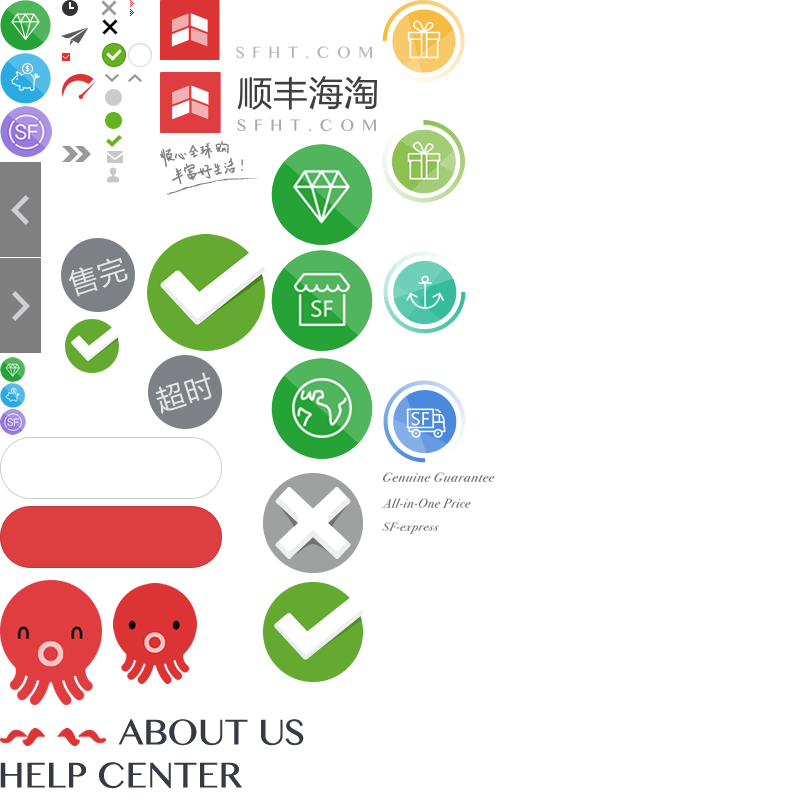
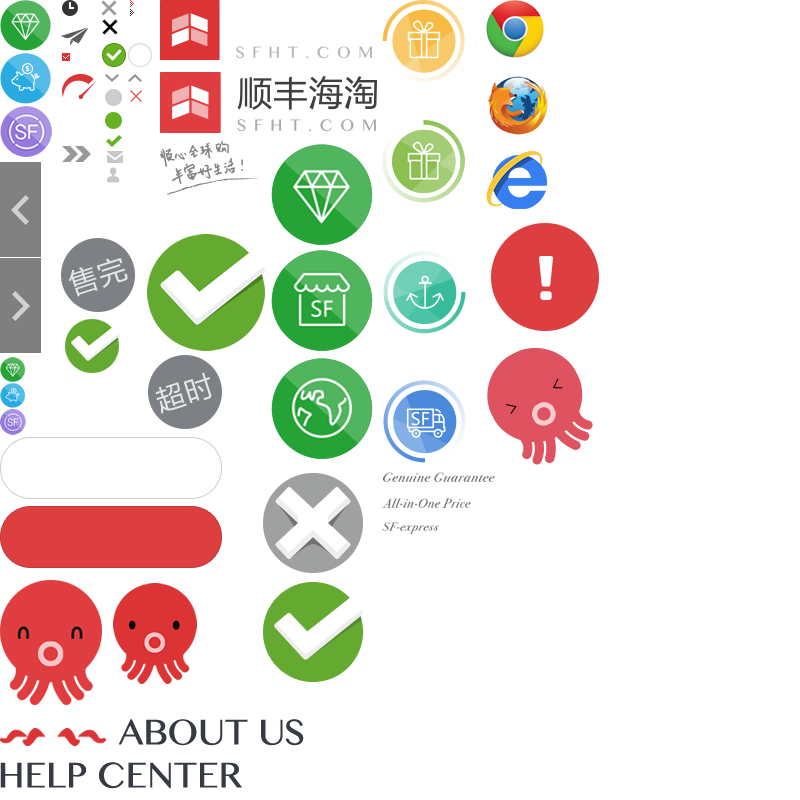
浏览器版本提示

Changed region(s): [[0.5938, 0.0, 0.75, 0.5938]]

diff --git a/prototype/dialog-browser.html b/prototype/dialog-browser.html
@@ -1,0 +1,123 @@
+<!DOCTYPE html PUBLIC "-//W3C//DTD XHTML 1.0 Transitional//EN" "http://www.w3.org/TR/xhtml1/DTD/xhtml1-transitional.dtd">
+<html xmlns="http://www.w3.org/1999/xhtml">
+<head>
+<meta http-equiv="Content-Type" content="text/html; charset=utf-8" />
+<title>顺丰海淘</title>
+<link href="css/common.css" rel="stylesheet" type="text/css" />
+<link href="css/browser.css" rel="stylesheet" type="text/css" />
+<script>
+    $(function(){
+        $('.u-icon-close').on("click",function(){
+            $(this).parents('.u-dialog').hide();
+        })
+    })
+</script>
+</head>
+<body  onLoad="setup()">
+    <div class="mask"></div>
+    <div class="u-dialog u-dialog-browser">
+        <div class="u-dialog-main">
+            <div class="u-dialog-h">
+                <span class="icon icon46"></span>
+                <button type="button" class="icon icon48"></button>
+            </div>
+            <div class="u-dialog-browser-b">
+                <h2><span class="icon icon47"></span>浏览器版本太低了啦！</h2>
+                <p class="u-dialog-browser-r1">对不起，为了得到我们网站最好的体验效果
+                    <br>我们建议您使用升级到最新版本的internet Explorer 或选择另一个web浏览器</p>
+                <p class="u-dialog-browser-r2">推荐您使用下方列表中的浏览器<b>↓</b></p>
+                <ul>
+                    <li><a target="_blank" href="http://www.google.cn/intl/zh-CN/chrome/" class="icon icon43"></a><a target="_blank" href="http://www.google.cn/intl/zh-CN/chrome/">CHROME</a></li>
+                    <li><a target="_blank" href="http://windows.microsoft.com/zh-cn/internet-explorer/" class="icon icon45"></a><a target="_blank" href="http://windows.microsoft.com/zh-cn/internet-explorer/">Internet Explorer 9</a></li>
+                    <li><a target="_blank" href="http://www.firefox.com.cn/download/" class="icon icon44"></a><a target="_blank" href="http://www.firefox.com.cn/download/">Firefox</a></li>
+                </ul>
+            </div>
+        </div>
+    </div>
+    <ul>
+        <li>li</li>
+        <li>li</li>
+        <li>li</li>
+        <li>li</li>
+        <li>li</li>
+        <li>li</li>
+        <li>li</li>
+        <li>li</li>
+        <li>li</li>
+        <li>li</li>
+        <li>li</li>
+        <li>li</li>
+        <li>li</li>
+        <li>li</li>
+        <li>li</li>
+        <li>li</li>
+        <li>li</li>
+        <li>li</li>
+        <li>li</li>
+        <li>li</li>
+        <li>li</li>
+        <li>li</li>
+        <li>li</li>
+        <li>li</li>
+        <li>li</li>
+        <li>li</li>
+        <li>li</li>
+        <li>li</li>
+        <li>li</li>
+        <li>li</li>
+        <li>li</li>
+        <li>li</li>
+        <li>li</li>
+        <li>li</li>
+        <li>li</li>
+        <li>li</li>
+        <li>li</li>
+        <li>li</li>
+        <li>li</li>
+        <li>li</li>
+        <li>li</li>
+        <li>li</li>
+        <li>li</li>
+        <li>li</li>
+        <li>li</li>
+        <li>li</li>
+        <li>li</li>
+        <li>li</li>
+        <li>li</li>
+        <li>li</li>
+        <li>li</li>
+        <li>li</li>
+        <li>li</li>
+        <li>li</li>
+        <li>li</li>
+        <li>li</li>
+        <li>li</li>
+        <li>li</li>
+        <li>li</li>
+        <li>li</li>
+        <li>li</li>
+        <li>li</li>
+        <li>li</li>
+        <li>li</li>
+        <li>li</li>
+        <li>li</li>
+        <li>li</li>
+        <li>li</li>
+        <li>li</li>
+        <li>li</li>
+        <li>li</li>
+        <li>li</li>
+        <li>li</li>
+        <li>li</li>
+        <li>li</li>
+        <li>li</li>
+        <li>li</li>
+        <li>li</li>
+        <li>li</li>
+        <li>li</li>
+        <li>li</li>
+        <li>li</li>
+        <li>li</li>
+    </ul>
+</body>
+</html>

diff --git a/prototype/css/browser.css b/prototype/css/browser.css
@@ -1,0 +1,131 @@
+@charset "utf-8";
+/*弹窗*/
+ .u-dialog{
+    position: fixed;
+    width: 100%;
+    height: 100%;
+    z-index: 3;
+ }
+.u-dialog-main{
+    position: absolute;
+    left: 50%;
+    top: 50%;
+    width: 598px;
+    height: 286px;
+    margin-left: -299px;
+    margin-top: -143px;
+    background: #fff;
+    box-shadow: 0 0 10px #000;
+}
+.u-dialog-h{
+    border-bottom: 1px solid #E5E5E5;
+    padding: 0 19px;
+}
+.u-dialog h2{
+    font-size: 14px;
+    font-weight: normal;
+}
+.u-dialog-b{
+    padding: 10px 19px;
+    border-bottom: 1px solid #E5E5E5;
+    height: 128px;
+    overflow-y: auto;
+    margin-bottom: 17px;
+}
+.u-dialog li{
+    line-height: 20px;
+    margin-bottom: 4px;
+    overflow: hidden;
+    *zoom:1;
+}
+.u-dialog p{
+	padding-top: 10px;
+}
+.u-dialog-c1{
+    width: 127px;
+    float: left;
+}
+.u-dialog-c2{
+    overflow: hidden;
+    *zoom:1;
+}
+.u-dialog-f{
+    padding: 0 19px;
+}
+.u-dialog .icon48{
+	position: absolute;
+	right: 15px;
+	top: 19px;
+	border: none;
+}
+.u-btn-success{
+    width: 89px;
+    height: 40px;
+    background: #DE3435;
+    color: #fff;
+    border: none;
+    font-size: 14px;
+}
+.u-dialog-browser .u-dialog-main{
+	width: 800px;
+	height: 476px;
+	margin-left: -400px;
+	margin-top: -238px;
+}
+.u-dialog-browser-b{
+	text-align: center;
+	background: url(../images/dialog/u-dialog-browser.png) no-repeat 171px 56px;
+}
+.u-dialog-browser h2{
+	font-size: 30px;
+	color: #000;
+	padding-top: 56px;
+	margin-bottom: 38px;
+}
+.u-dialog-browser-r1{
+	font-size: 14px;
+	font-weight: bold;
+	line-height: 1.88;
+	margin-bottom: 33px;
+}
+.u-dialog-browser-r2{
+	margin-bottom: 32px;
+}
+.u-dialog-browser-r2 b{
+	color: #DD3F40;
+	margin-left: 5px;
+	font-size: 14px;
+}
+.u-dialog-browser ul{
+	margin: 0 136px;
+	font-size: 0;
+}
+.u-dialog-browser li{
+	display: inline-block;
+	*display: inline;
+	*zoom:1;
+	width: 33%;
+}
+.u-dialog-browser li a{
+	color: #000;
+	font-size: 12px;
+	margin-bottom: 10px;
+	font-weight: bold;
+}
+.u-dialog-browser p{
+	padding-top: 0;
+}
+.u-dialog-browser .icon46{
+	position: absolute;
+	top: -40px;
+	left: -40px;
+}
+.u-dialog-browser .icon43,
+.u-dialog-browser .icon44,
+.u-dialog-browser .icon45{
+	display: block;
+	margin: 0 auto;
+}
+.u-dialog-browser .icon47{
+	margin-right: 35px;
+}

diff --git a/prototype/css/common.css b/prototype/css/common.css
@@ -378,6 +378,36 @@ img{vertical-align: middle;}
 	height: 16px;
 	background-position: -107px -167px;
 }
+.icon43{
+	width: 58px;
+	height: 58px;
+	background-position: -486px 0;
+}
+.icon44{
+	width: 65px;
+	height: 65px;
+	background-position: -486px -72px;
+}
+.icon45{
+	width: 61px;
+	height: 58px;
+	background-position: -486px -151px;
+}
+.icon46{
+	width: 116px;
+	height: 116px;
+	background-position: -486px -219px;
+}
+.icon47{
+	width: 106px;
+	height: 118px;
+	background-position: -486px -347px;
+}
+.icon48{
+	width: 12px;
+	height: 12px;
+	background-position: -130px -90px;
+}
 
 /*btn*/
 .btn{

diff --git a/prototype/common.html b/prototype/common.html
@@ -92,6 +92,12 @@
       <span class="icon icon40">help center</span>
       <span class="icon icon41"></span>
       <span class="icon icon42"></span>
+      <span class="icon icon43"></span>
+      <span class="icon icon44"></span>
+      <span class="icon icon45"></span>
+      <span class="icon icon46"></span>
+      <span class="icon icon47"></span>
+      <span class="icon icon48"></span>
 
 
 
